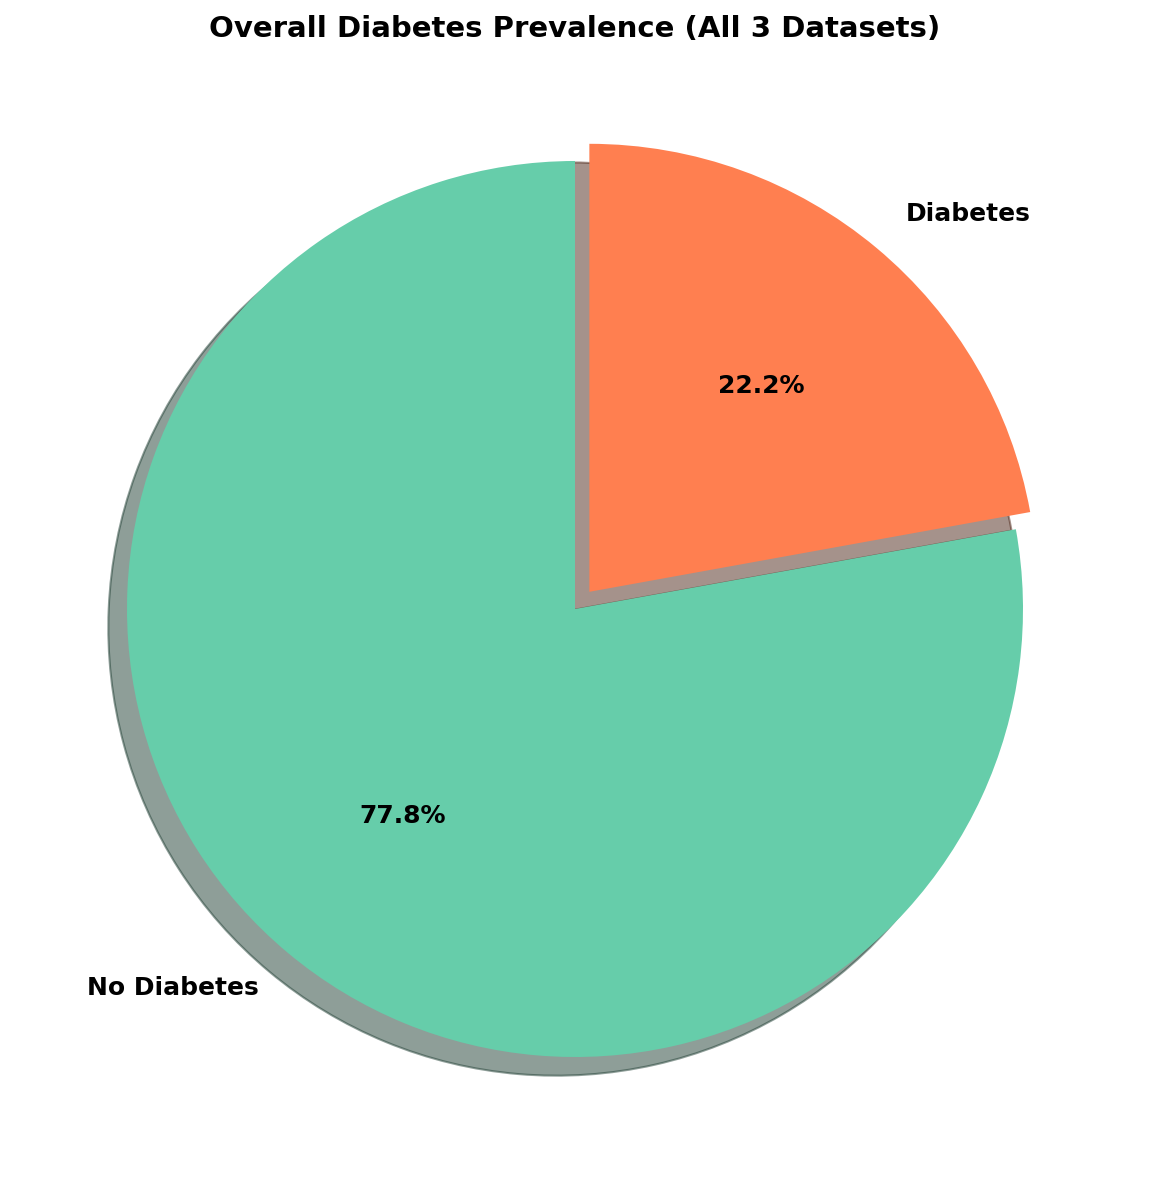
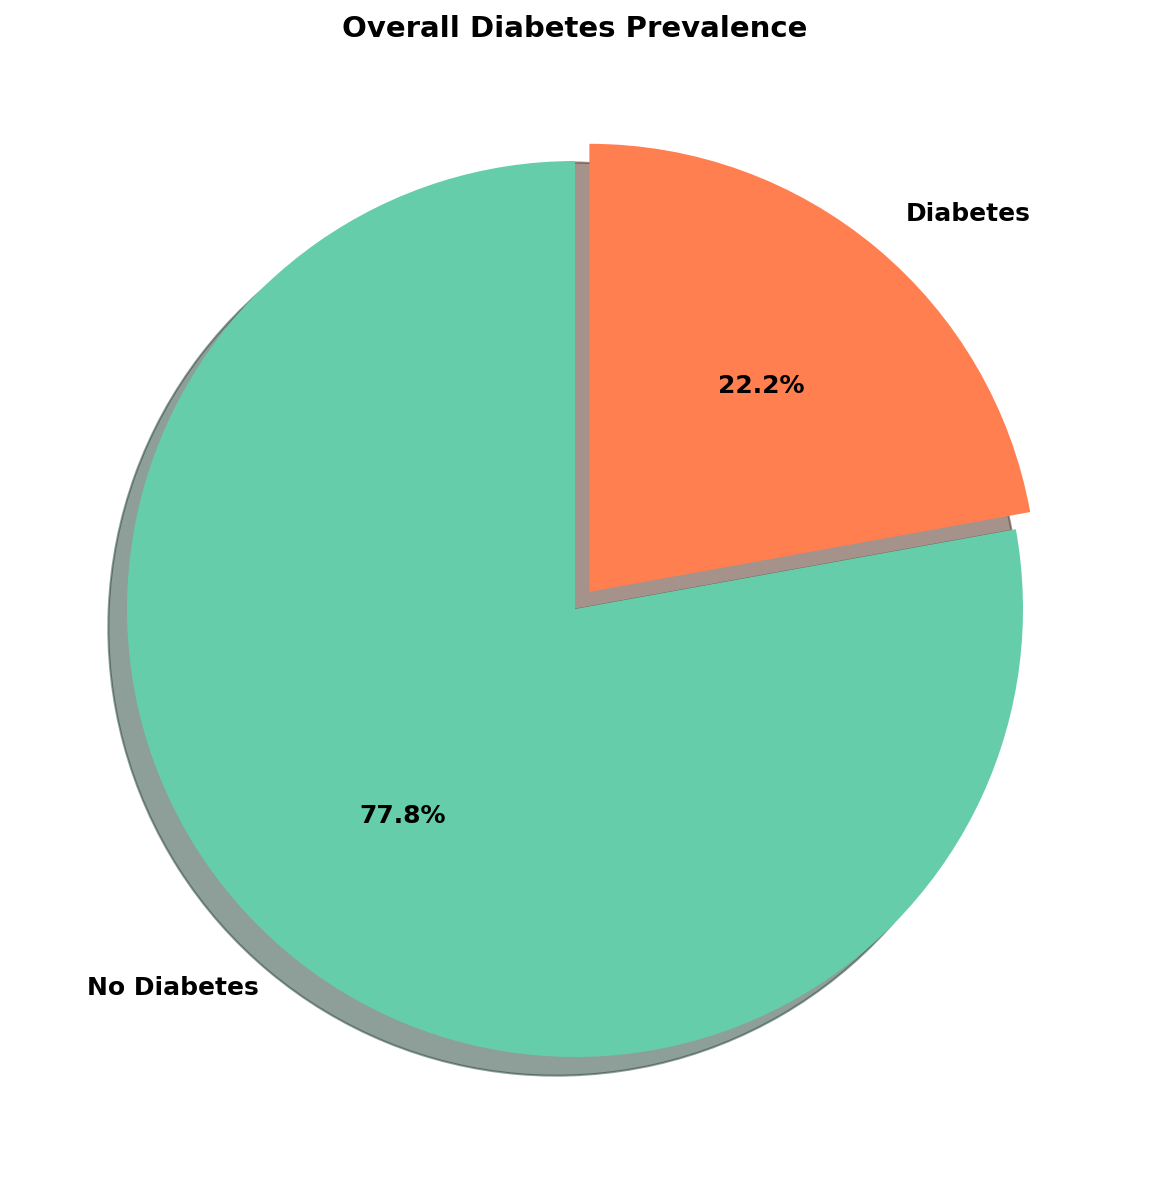
Fixed first graph to have better title

Changed region(s): [[0.1826, 0.0, 0.8217, 0.0312]]

diff --git a/main.py b/main.py
@@ -217,7 +217,7 @@ explode_pie = (0, 0.05)  # Slightly explode the Diabetes slice
 ax1.pie(diabetes_counts, labels=labels_pie, colors=colors_pie, explode=explode_pie,
         autopct='%1.1f%%', startangle=90, shadow=True,
         textprops={'fontsize': 12, 'fontweight': 'bold'})
-ax1.set_title('Overall Diabetes Prevalence (All 3 Datasets)', fontsize=14, fontweight='bold')
+ax1.set_title('Overall Diabetes Prevalence', fontsize=14, fontweight='bold')
 plt.tight_layout()
 plt.savefig('./results/viz1_pie_diabetes_prevalence.png', dpi=150, bbox_inches='tight')
 # ============================================================================
